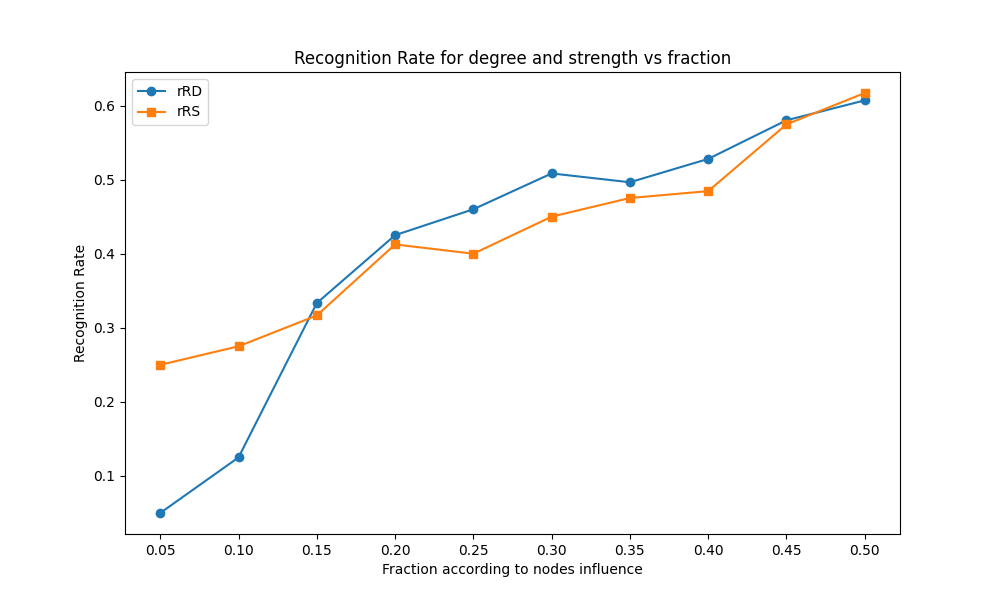
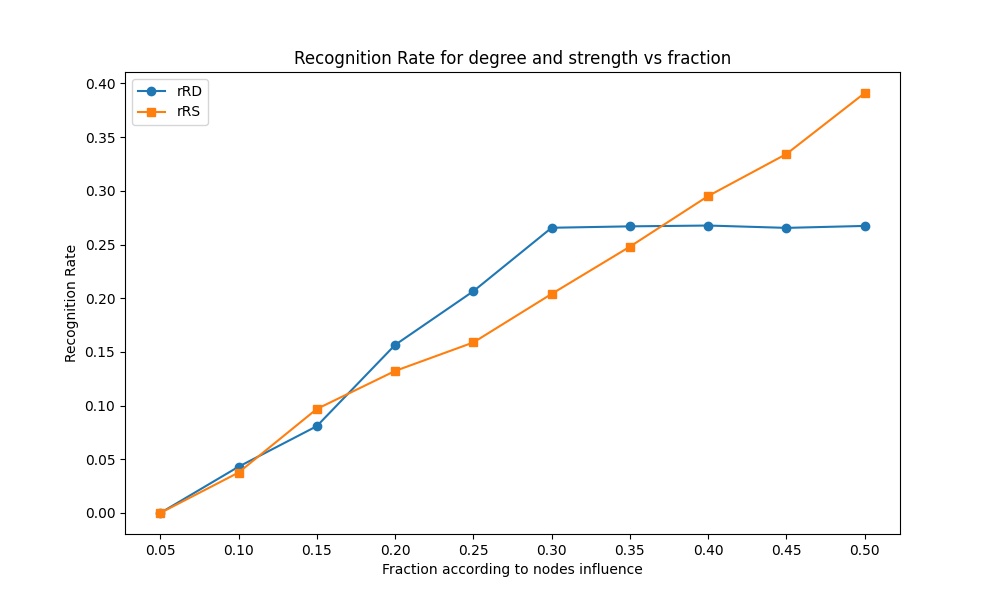
part b

diff --git a/temporal_network.py b/temporal_network.py
@@ -1,3 +1,5 @@
+import random
+
 import pandas as pd
 import igraph as ig
 import numpy as np
@@ -35,8 +37,14 @@ def calculate_degree(edges, nodes):
             degrees[n2] += 1
             used_edges.add((n1, n2))
             used_edges.add((n2, n1))
-
-    return sorted(nodes, key=lambda x: degrees[x], reverse=True)
+    sorted_grouped = {}
+    degrees = dict(sorted(degrees.items(), key=lambda item: item[1], reverse=True))
+    for key, val in sorted(degrees.items()):
+        if val in sorted_grouped:
+            sorted_grouped[val].append(key)
+        else:
+            sorted_grouped[val] = [key]
+    return dict(sorted(sorted_grouped.items(), key=lambda x: x[0], reverse=True))
 
 
 def calculate_weight_node(edges, nodes):
@@ -55,7 +63,14 @@ def calculate_weight_node(edges, nodes):
         for edge, weight in weight_by_edge.items():
             if node in edge:
                 node_strength[node] += weight
-    return sorted(nodes, key=lambda x: node_strength[x], reverse=True)
+    sorted_grouped = {}
+    degrees = dict(sorted(node_strength.items(), key=lambda item: item[1], reverse=True))
+    for key, val in sorted(degrees.items()):
+        if val in sorted_grouped:
+            sorted_grouped[val].append(key)
+        else:
+            sorted_grouped[val] = [key]
+    return dict(sorted(sorted_grouped.items(), key=lambda x: x[0], reverse=True))
 
 
 def first_contact_in_network(edges_by_timestamp):
@@ -70,7 +85,14 @@ def first_contact_in_network(edges_by_timestamp):
                 first_contact[n2] = min(timestamp, first_contact[n2])
             else:
                 first_contact[n2] = timestamp
-    return dict(sorted(first_contact.items(), key=lambda x: x[1]))
+    first_contact = dict(sorted(first_contact.items(), key=lambda item: item[1], reverse=True))
+    sorted_grouped = {}
+    for key, val in sorted(first_contact.items()):
+        if val in sorted_grouped:
+            sorted_grouped[val].append(key)
+        else:
+            sorted_grouped[val] = [key]
+    return dict(sorted(sorted_grouped.items(), key=lambda x: x[0], reverse=True))
 
 
 def find_first_timestamp_and_link(edges_by_timestamp, seed):
@@ -115,8 +137,14 @@ def get_networks(edges_by_timestamp: dict, nodes: list[int], infection_goal):
                     infected_nodes_by_seed[seed] = timestamp
 
         networks.append(ig.Graph(infected_links))
-
-    return networks, infected_nodes_by_timestamp, dict(sorted(infected_nodes_by_seed.items(), key=lambda item: item[1]))
+    sorted_grouped = {}
+    # infected_nodes_by_seed = dict(sorted(infected_nodes_by_seed.items(), key=lambda item: item[1]))
+    for key, val in sorted(infected_nodes_by_seed.items()):
+        if val in sorted_grouped:
+            sorted_grouped[val].append(key)
+        else:
+            sorted_grouped[val] = [key]
+    return networks, infected_nodes_by_timestamp, dict(sorted(sorted_grouped.items(), key=lambda x: x[0], reverse=True)),  dict(sorted(infected_nodes_by_seed.items(), key=lambda item: item[1]))
 
 
 def calculate_average_infected(infected_nodes_by_timestamp):
@@ -178,24 +206,42 @@ def plot_infected_nodes_by_seed(sorted_infected_nodes, assignment_num):
 
 #b10
 def centrality(nodes, edges, sorted_infected_nodes, edges_by_timestamp, num):
-    sorted_infected_nodes = list(sorted_infected_nodes.keys())
+    # sorted_infected_nodes = list(sorted_infected_nodes.keys())
     f = [0.05, 0.1, 0.15, 0.2, 0.25, 0.3, 0.35, 0.4, 0.45, 0.5]
     degrees = calculate_degree(edges, nodes)
     weights = calculate_weight_node(edges, nodes)
-    fc = list(first_contact_in_network(edges_by_timestamp).keys())
+    fc = first_contact_in_network(edges_by_timestamp)
     rRD_values = []
     rRS_values = []
     rFS_values = []
     for v in f:
         fraction = int(v * len(nodes))
-        Rf = set(sorted_infected_nodes[0:fraction])
-        Rf_degree = set(degrees[0:fraction])
-        Rf_strength = set(weights[0:fraction])
-        Rf_contact = set(fc[0:fraction])
-        rRD = len(Rf.intersection(Rf_degree))/len(Rf)
-        rRS = len(Rf.intersection(Rf_strength))/len(Rf)
-        rFS = len(Rf.intersection(Rf_contact))/len(Rf)
-
+        rRD = 0
+        rRS = 0
+        rFS = 0
+        for _ in range(1000):
+            Rf_degree = set()
+            Rf_strength = set()
+            Rf = set()
+            Rf_contact = set()
+            degreess = list(degrees.items())[0:int(v * len(nodes))]
+            for key, value in degreess:
+                Rf_degree.add(random.choice(value))
+            weightss = list(weights.items())[0:int(v * len(nodes))]
+            for key, value in weightss:
+                Rf_strength.add(random.choice(value))
+            sorted_infected_nodess = list(sorted_infected_nodes.items())[0:int(v * len(nodes))]
+            for key, value in sorted_infected_nodess:
+                Rf.add(random.choice(value))
+            fcs = list(fc.items())[0:int(v * len(nodes))]
+            for key, value in fcs:
+                Rf_contact.add(random.choice(value))
+            rRD += len(Rf.intersection(Rf_degree))/len(Rf)
+            rRS += len(Rf.intersection(Rf_strength))/len(Rf)
+            rFS += len(Rf.intersection(Rf_contact))/len(Rf)
+        rRD /= 1000
+        rRS /= 1000
+        rFS /= 1000
         rRD_values.append(rRD)
         rRS_values.append(rRS)
         rFS_values.append(rFS)
@@ -281,28 +327,28 @@ def plot_different_infection_metrics(sorted_infected_nodes, assignment_num):
 
 if __name__ == "__main__":
     edges_by_timestamp, nodes, edges = read_file()
-    networks, infected_nodes_by_timestamp, sorted_infected_nodes = get_networks(edges_by_timestamp, nodes, 0.8)
+    networks, infected_nodes_by_timestamp, sorted_infected_nodes, not_map = get_networks(edges_by_timestamp, nodes, 0.8)
 
     # PART B.8
     # plot_average_infected_with_errorbars(infected_nodes_by_timestamp)
 
     # PART B.9
-    # plot_infected_nodes_by_seed(sorted_infected_nodes, "9")
+    plot_infected_nodes_by_seed(not_map, "9")
 
     # PART B.10
-    # centrality(nodes, edges, sorted_infected_nodes, edges_by_timestamp, "10")
+    centrality(nodes, edges, sorted_infected_nodes, edges_by_timestamp, "10")
 
     # PART B.11
-    # centrality(nodes, edges, sorted_infected_nodes, edges_by_timestamp, "11")
+    centrality(nodes, edges, sorted_infected_nodes, edges_by_timestamp, "11")
 
     # # For 12 we need to rank on 10% reached.
-    networks_r, infected_nodes_by_timestamp_r, sorted_infected_nodes_r = get_networks(edges_by_timestamp, nodes, 0.8)
-    networks_r_star, infected_nodes_by_timestamp_r_star, sorted_infected_nodes_r_star = get_networks(edges_by_timestamp, nodes, 0.1)
+    networks_r, infected_nodes_by_timestamp_r, sorted_infected_nodes_r, not_map_r = get_networks(edges_by_timestamp, nodes, 0.8)
+    networks_r_star, infected_nodes_by_timestamp_r_star, sorted_infected_nodes_r_star, not_map_r_star = get_networks(edges_by_timestamp, nodes, 0.1)
     networks_r_accent, infected_nodes_by_timestamp_r_accent, sorted_infected_nodes_r_accent = get_networks_b12(edges_by_timestamp, nodes, 0.8)
-    print(f"len r = {len(sorted_infected_nodes_r)}, len r* = {len(sorted_infected_nodes_r_star)}, len r'= {len(sorted_infected_nodes_r_accent)}")
+    print(f"len r = {len(not_map_r)}, len r* = {len(not_map_r_star)}, len r'= {len(sorted_infected_nodes_r_accent)}")
     infection_metrics = {
-        "R": sorted_infected_nodes_r,
-        "R*": sorted_infected_nodes_r_star,
+        "R": not_map_r,
+        "R*": not_map_r_star,
         "R'": sorted_infected_nodes_r_accent
-    }  
+    }
     plot_different_infection_metrics(infection_metrics, "12")
